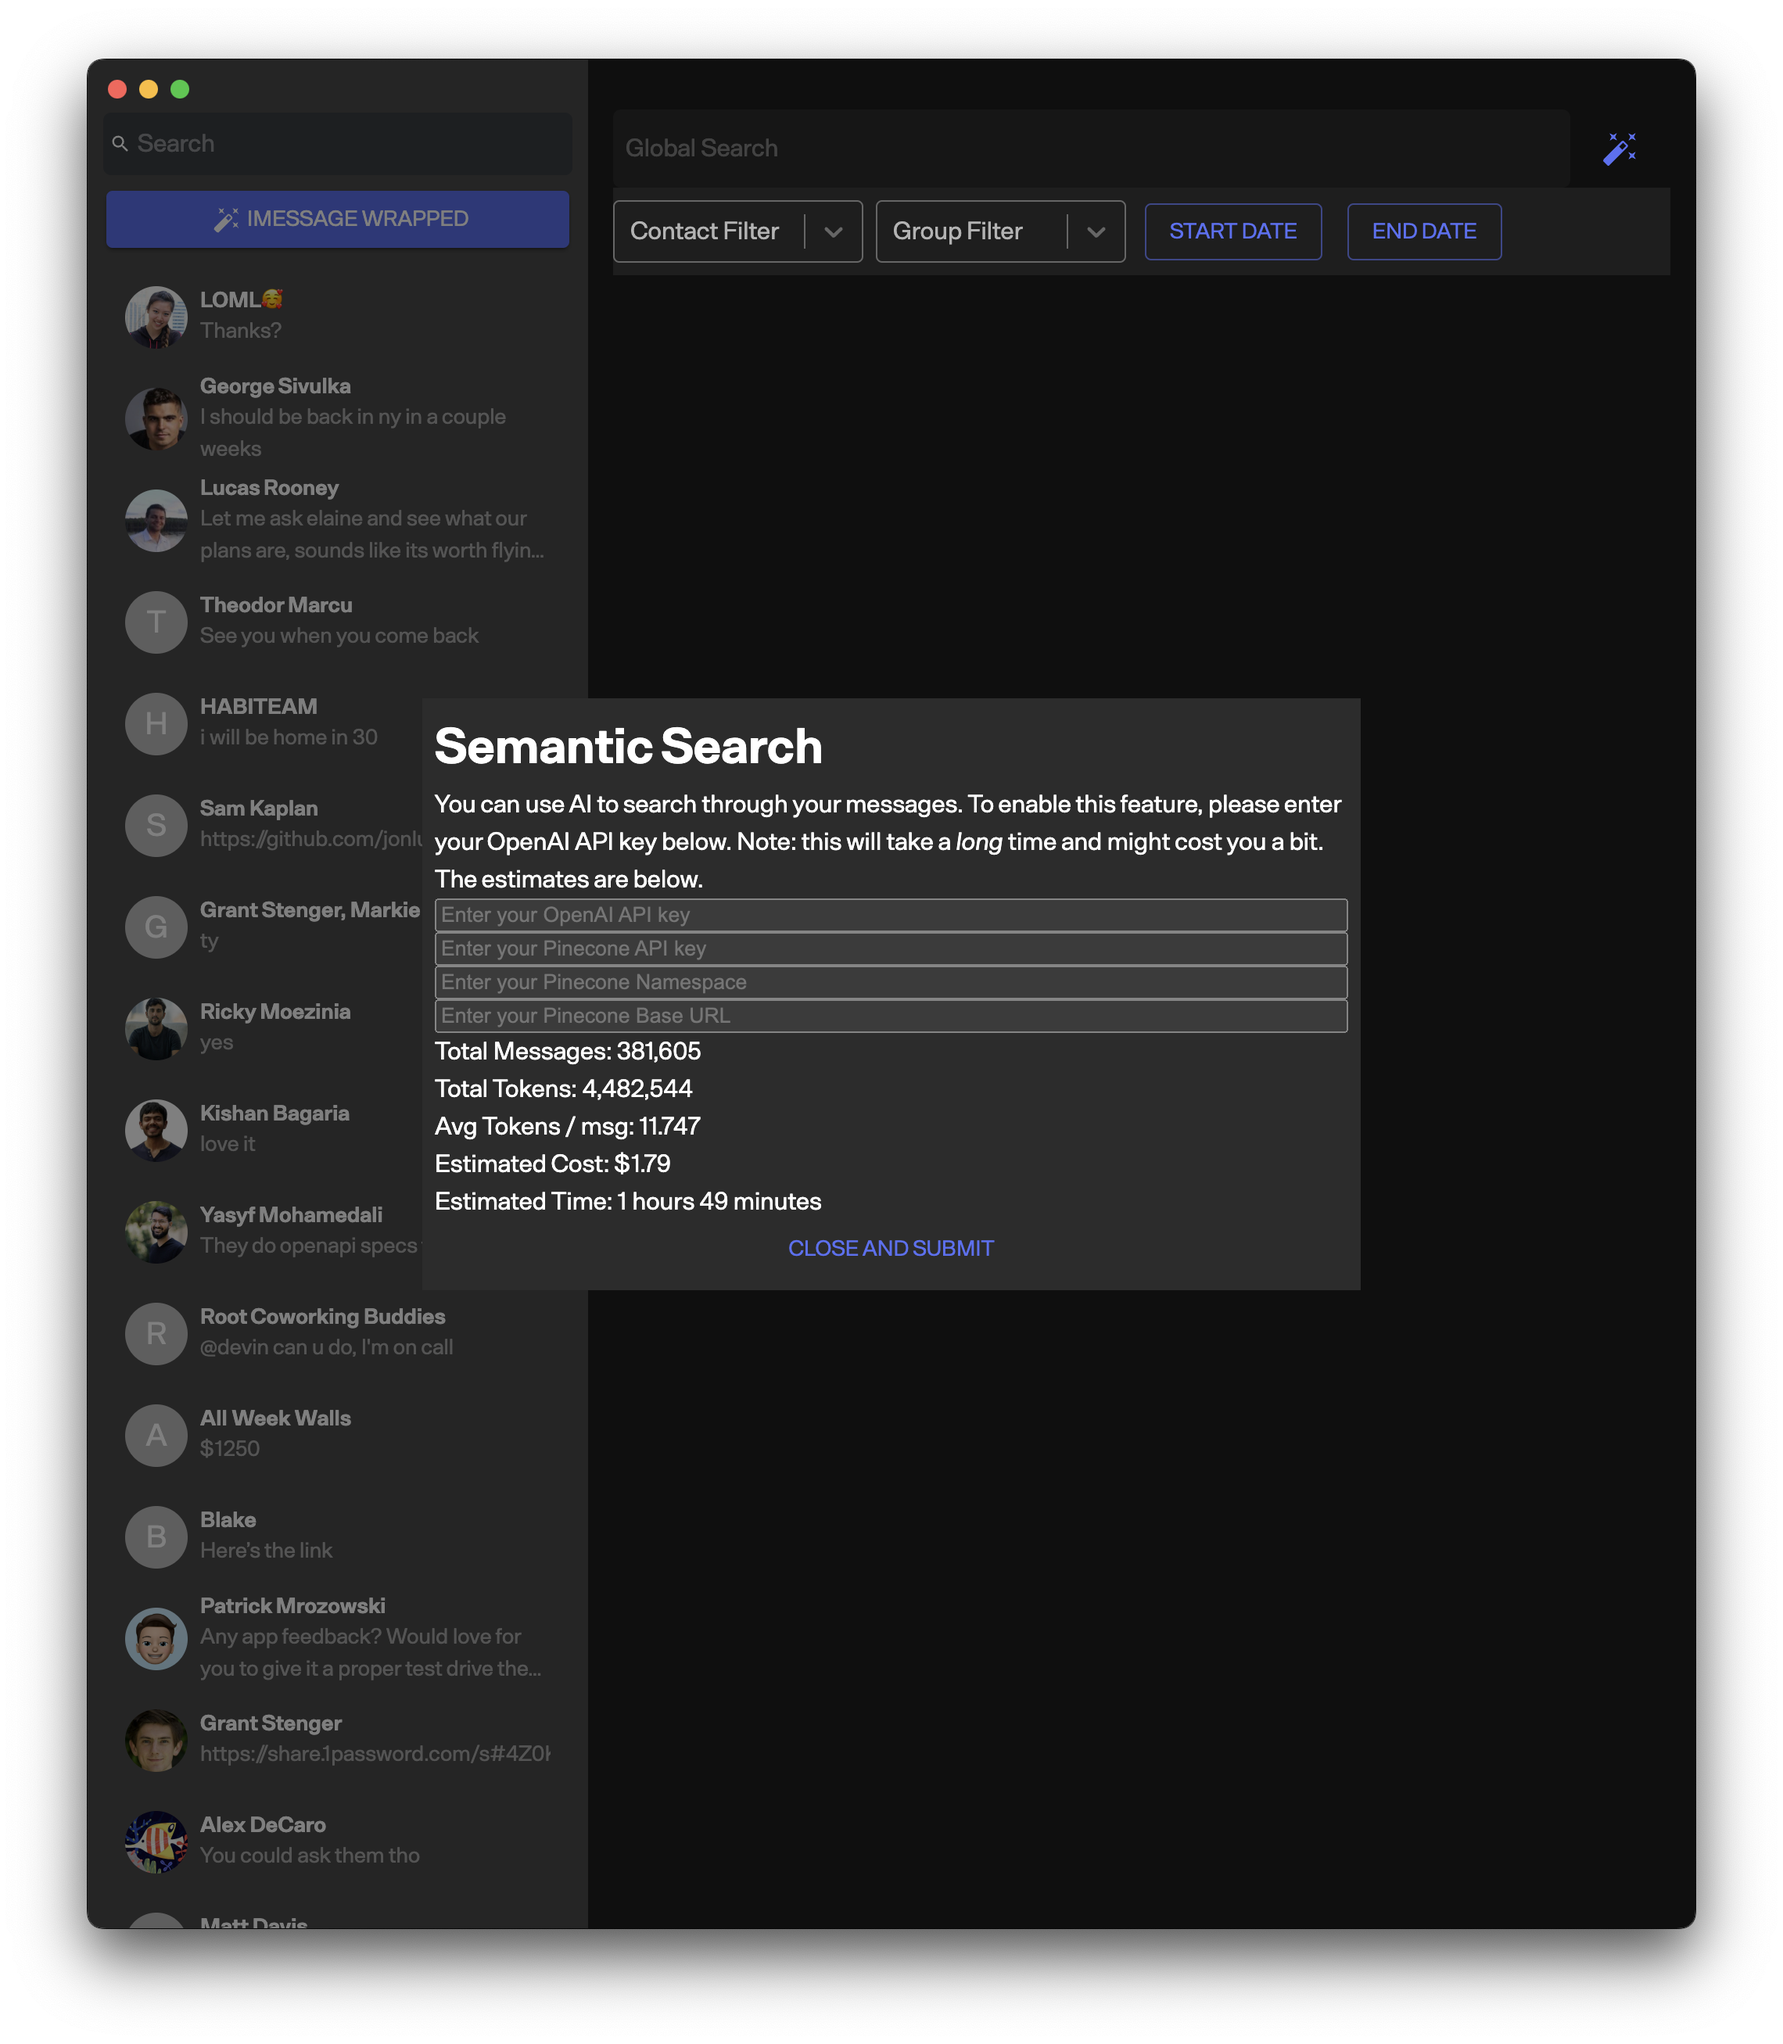
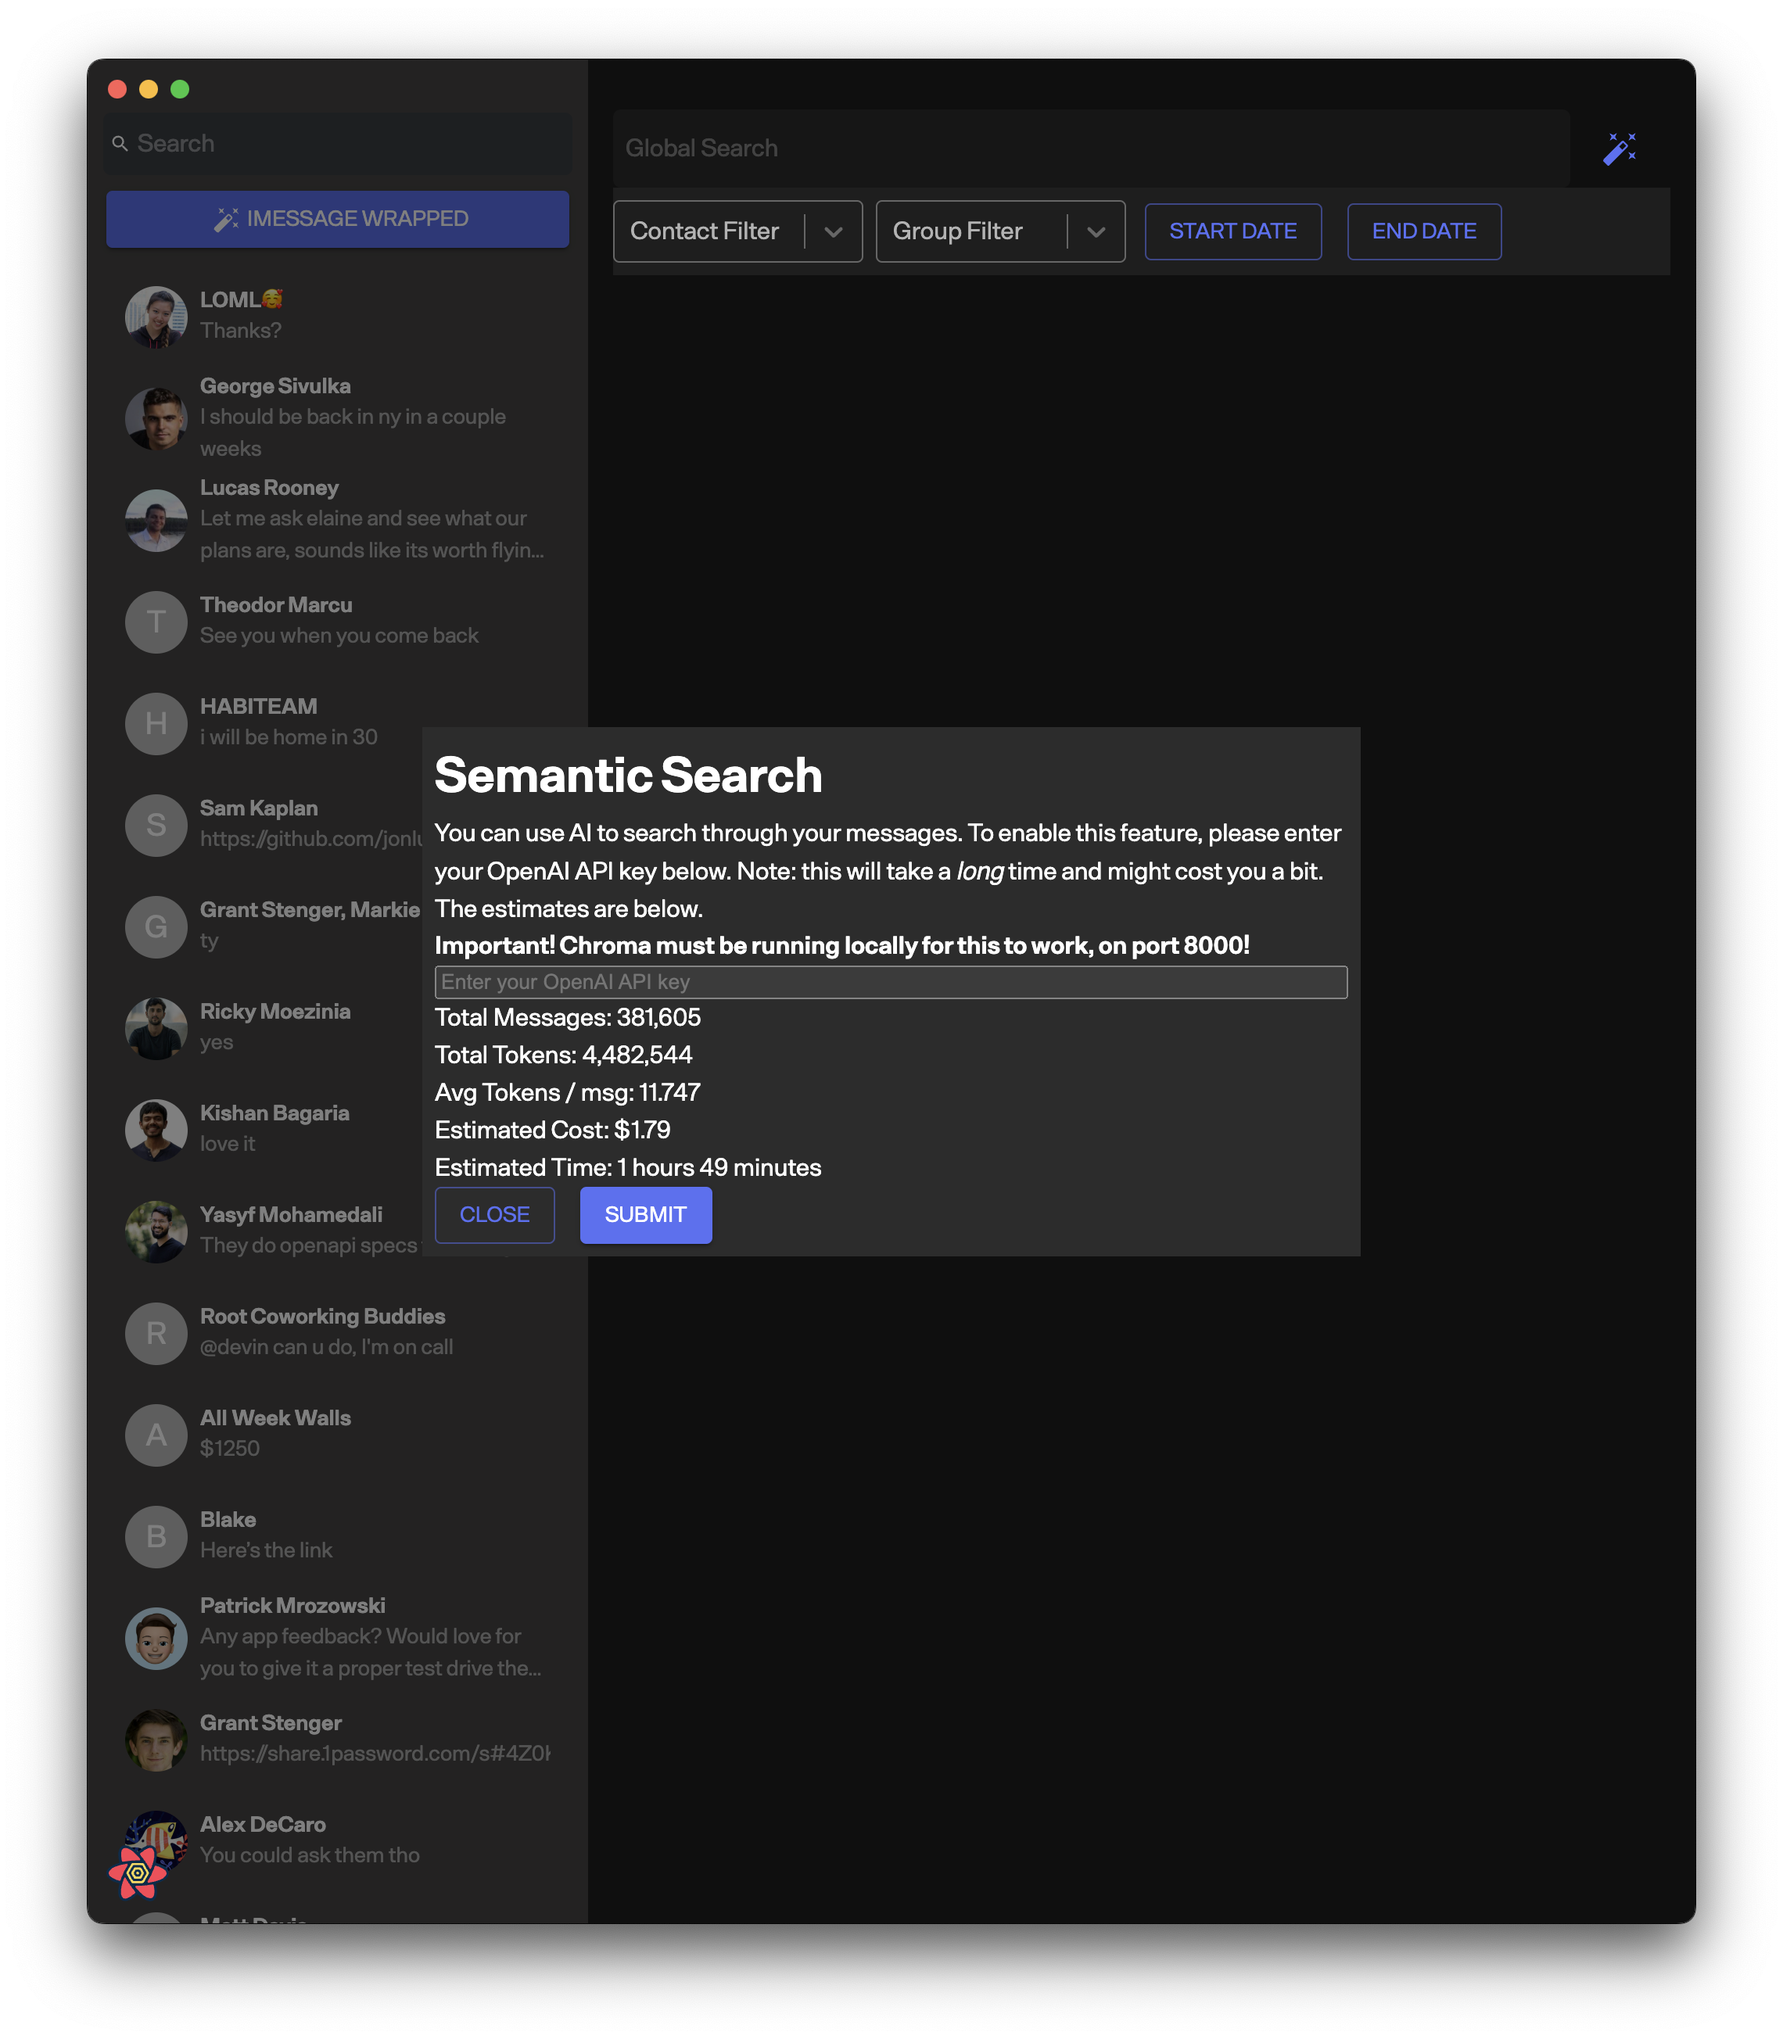
add chroma, wrapped image

diff --git a/_posts/2023-04-13-mimessage.md b/_posts/2023-04-13-mimessage.md
@@ -30,9 +30,12 @@ A few gotchas were:
 
 Wrapped gives you a breakdown of your iMessage habits, broken down by year and by conversation/person.
 
-{% include image.html footnote="ChatGPT's suggestions for the features in wrapped" file="chatgpt" alt="chatgpt product suggestions" %}
+{% include image.html footnote="iMessage Wrapped" file="wrapped" alt="imessage wrapped" %}
 
 I actually used ChatGPT to generate the product features included in iMessage Wrapped - as soon as it can do figma mocks I'll redesign the UI using that, as well.
+
+{% include image.html footnote="ChatGPT's suggestions for the features in wrapped" file="chatgpt" alt="chatgpt product suggestions" %}
+
 
 ## AI Conversations
 
@@ -54,7 +57,7 @@ I also created a virtual FTS5 table in the sqlite messages copy, which does `MAT
 
 ### Semantic Search
 
-I also wanted to add semantic search, as those results will often blow pure text searches out of the water. I used OpenAI and pinecone to create and store the embeddings for each text message, respectively.
+I also wanted to add semantic search, as those results will often blow pure text searches out of the water. I used OpenAI and ChromaDB to create and store the embeddings for each text message, respectively.
 
 {% include image.html footnote="Enabling semantic search on top of imessage" file="semantic-search" alt="semantic search" %}
 
